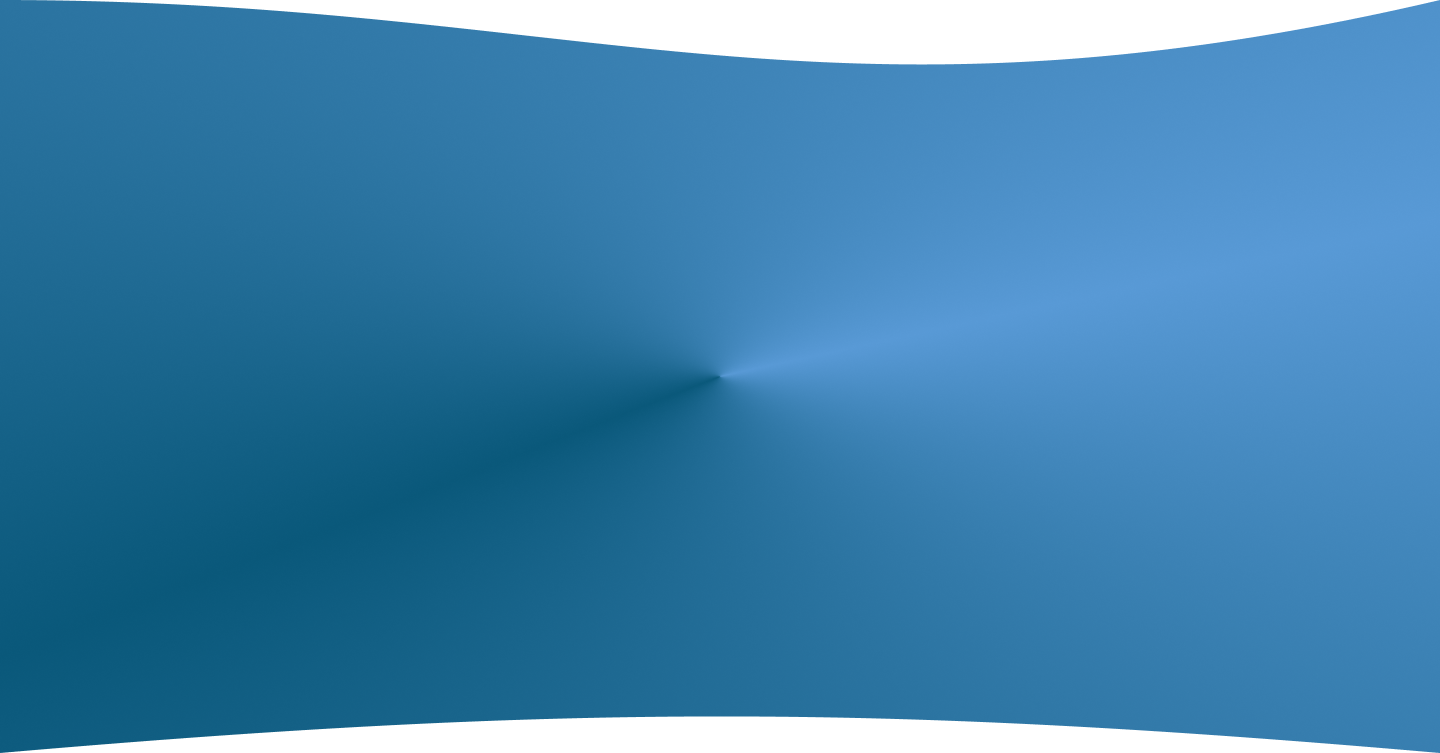
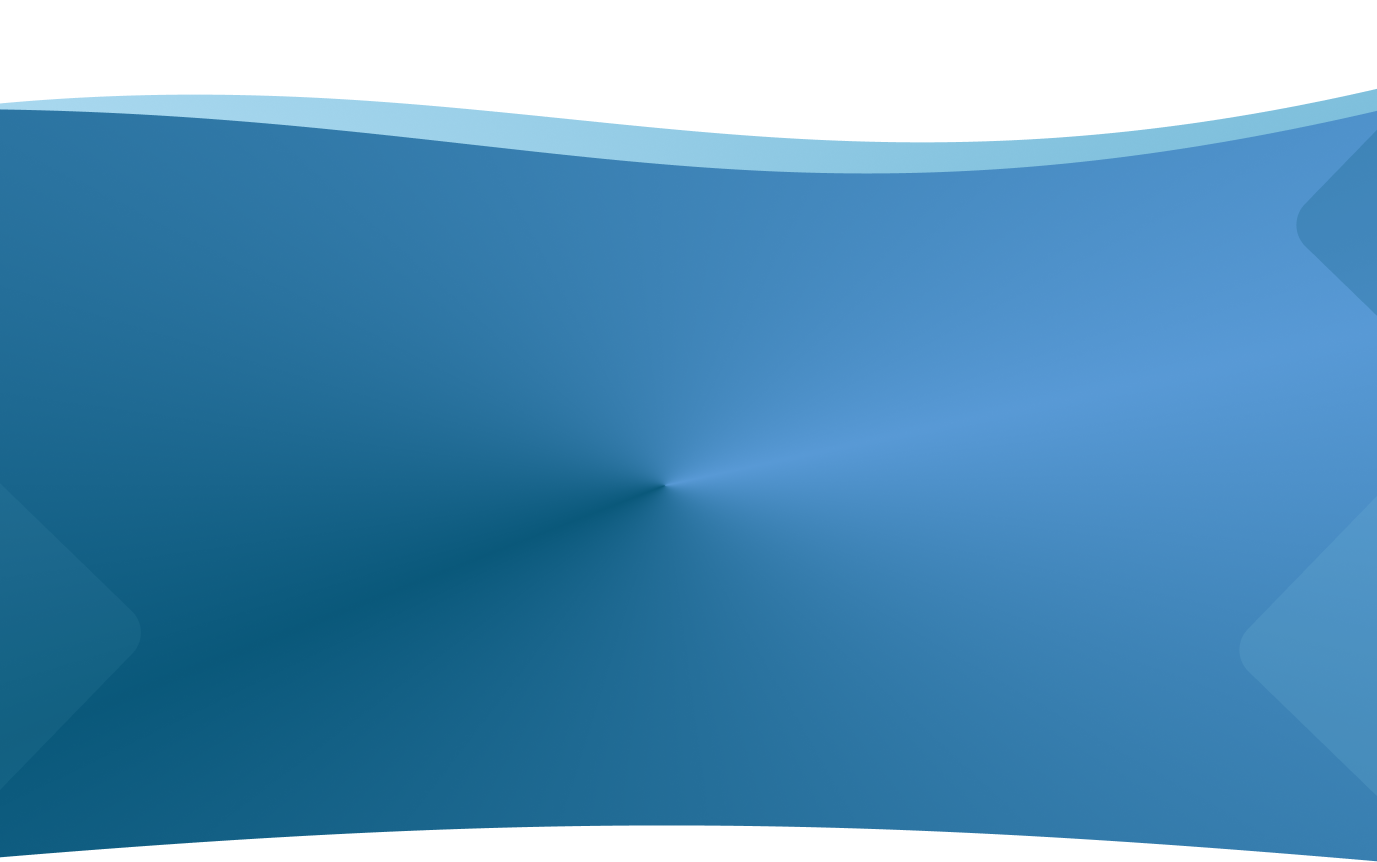
backgrounds

diff --git a/css/home.css b/css/home.css
@@ -4,6 +4,11 @@
     margin: 0;
 }
 
+body {
+    background: url("/assets/bg.png");
+    background-size: 1500px 1000px;
+}
+
 .container {
     margin: 0;
 }
@@ -62,7 +67,6 @@ h4 {
 }
 
 .who-are-we {
-    background: url("/assets/waw-bg.png");
     width: 100vw;
     height: 100vh;
     background-size: cover;
@@ -158,6 +162,7 @@ p span.blue {
     background-size: cover;
     width: 100vw;
     height: 120vh;
+    padding-top: 80px;
 }
 
 .our-services p {
@@ -213,11 +218,11 @@ p span.blue {
 }
 
 .our-mentors {
-    background: url("/assets/waw-bg.png");
     background-size: cover;
     width: 100vw;
     height: 100vh;
-    padding: 100px;
+    padding: 80px;
+    background-repeat: repeat-y;
 }
 
 .our-mentors h1 {
@@ -253,11 +258,11 @@ p span.blue {
 }
 
 .our-projects {
-    background: url("/assets/our-services-bg.png");
+    background: url("/assets/our-projects-bg.png");
     background-size: cover;
     width: 100vw;
-    height: 120vh;
-    padding: 100px;
+    height: 140vh;
+    padding: 170px 100px 100px;
 }
 
 .our-projects .card-group {
@@ -311,7 +316,7 @@ p span.blue {
 }
 
 .join-our-community {
-    background: url("/assets/waw-bg.png");
+    background: url("/assets/bg.png");
     background-size: cover;
     width: 100vw;
     height: 100vh;
